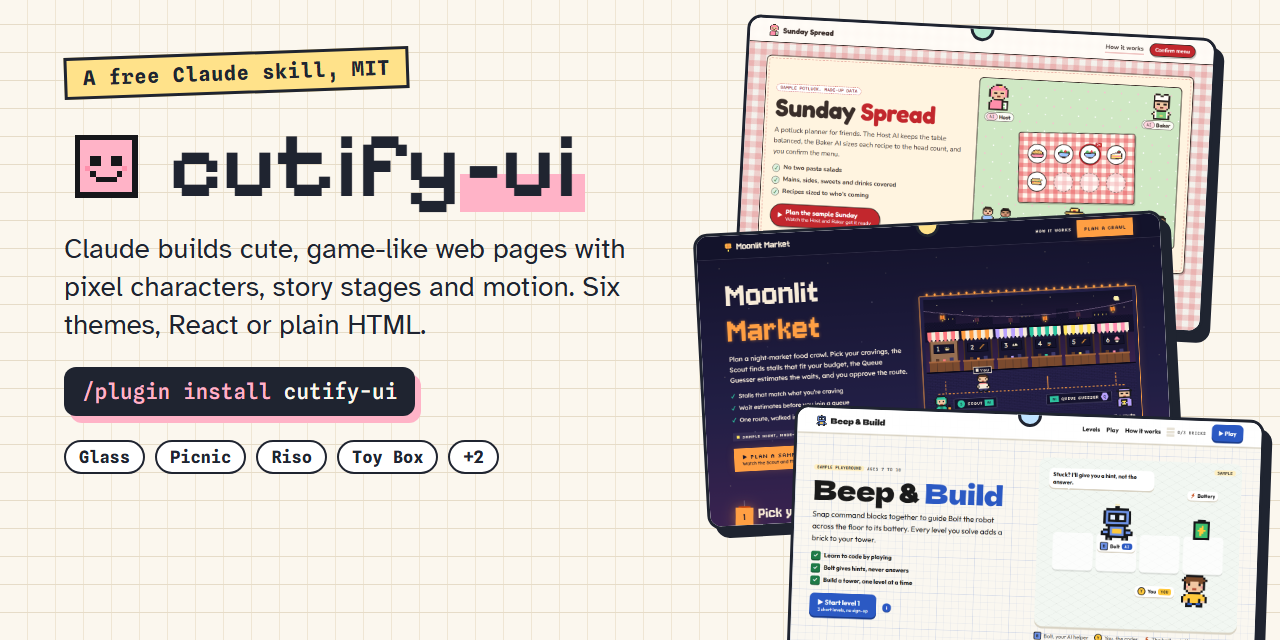
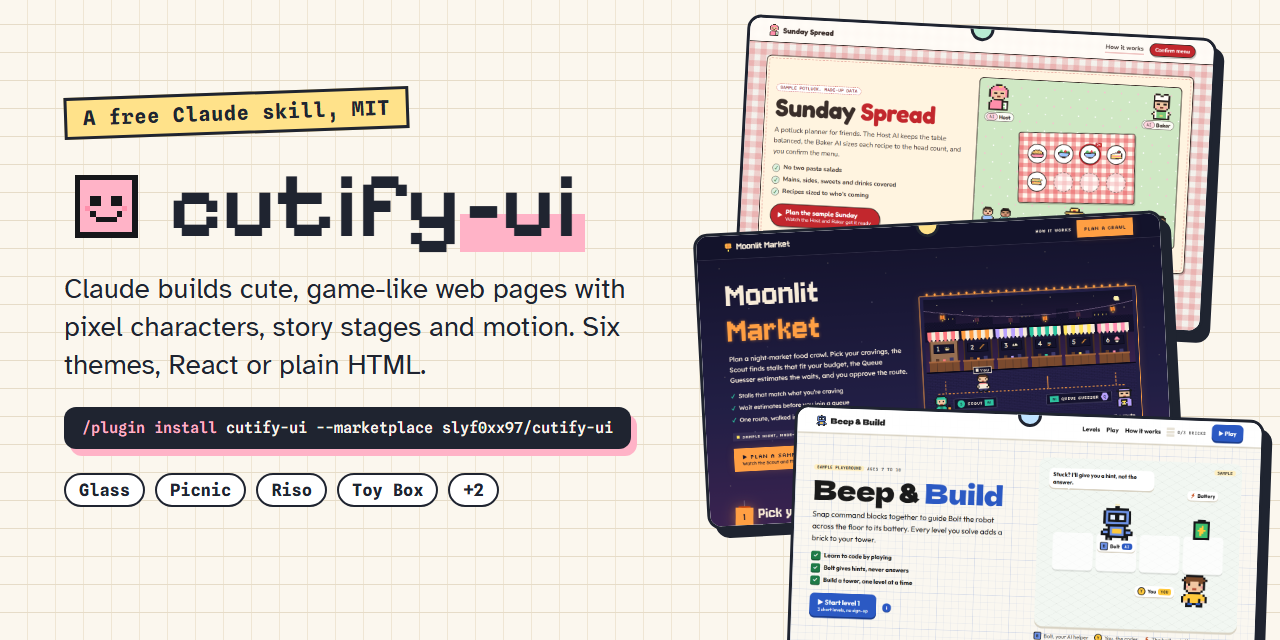
Show the full install command on the cover and social card
/plugin install cutify-ui alone can't find the plugin; it needs
--marketplace slyf0xx97/cutify-ui.

Changed region(s): [[0.0312, 0.0625, 0.5, 0.4062], [0.0312, 0.4375, 0.5, 0.8125]]

diff --git a/tools/cover.html b/tools/cover.html
@@ -18,7 +18,7 @@ html, body { margin: 0; }
 h1 { margin: 0; font: 600 92px/1 'Pixelify Sans', sans-serif; white-space: nowrap; }
 h1 span { background: linear-gradient(transparent 58%, var(--pink) 58%, var(--pink) 92%, transparent 92%); padding: 0 .08em; }
 p { margin: 0 0 24px; font-size: 28px; line-height: 1.35; color: var(--ink); }
-.cmd { display: inline-block; padding: 12px 18px; background: var(--ink); color: var(--paper); border-radius: 12px; font: 500 21px 'Spline Sans Mono', monospace; box-shadow: 6px 7px 0 var(--pink); }
+.cmd { display: inline-block; padding: 12px 18px; background: var(--ink); color: var(--paper); border-radius: 12px; font: 500 15px 'Spline Sans Mono', monospace; white-space: nowrap; box-shadow: 6px 7px 0 var(--pink); }
 .cmd b { color: var(--pink); font-weight: 500; }
 .chips { display: flex; gap: 10px; margin-top: 24px; }
 .chips span { padding: 5px 13px; border: 2px solid var(--ink); border-radius: 999px; font: 700 17px 'Spline Sans Mono', monospace; background: #fff; }
@@ -41,7 +41,7 @@ p { margin: 0 0 24px; font-size: 28px; line-height: 1.35; color: var(--ink); }
       <h1>cutify<span>-ui</span></h1>
     </div>
     <p>Claude builds cute, game-like web pages with pixel characters, story stages and motion. Six themes, React or plain HTML.</p>
-    <span class="cmd"><b>/plugin install</b> cutify-ui</span>
+    <span class="cmd"><b>/plugin install</b> cutify-ui --marketplace slyf0xx97/cutify-ui</span>
     <div class="chips"><span>Glass</span><span>Picnic</span><span>Riso</span><span>Toy Box</span><span>+2</span></div>
   </div>
   <div class="shot big" style="left: 690px; top: 34px; transform: rotate(-1.5deg); z-index: 2"><span class="pin" style="background: var(--mint)"></span><iframe src="../examples/sprout/" title="Sprout" tabindex="-1"></iframe><span class="tag">Glass</span></div>

diff --git a/tools/social.html b/tools/social.html
@@ -18,7 +18,7 @@ html, body { margin: 0; }
 h1 { margin: 0; font: 600 92px/1 'Pixelify Sans', sans-serif; white-space: nowrap; }
 h1 span { background: linear-gradient(transparent 58%, var(--pink) 58%, var(--pink) 92%, transparent 92%); padding: 0 .08em; }
 p { margin: 0 0 24px; font-size: 28px; line-height: 1.35; color: var(--ink); }
-.cmd { display: inline-block; padding: 12px 18px; background: var(--ink); color: var(--paper); border-radius: 12px; font: 500 21px 'Spline Sans Mono', monospace; box-shadow: 6px 7px 0 var(--pink); }
+.cmd { display: inline-block; padding: 12px 18px; background: var(--ink); color: var(--paper); border-radius: 12px; font: 500 15px 'Spline Sans Mono', monospace; white-space: nowrap; box-shadow: 6px 7px 0 var(--pink); }
 .cmd b { color: var(--pink); font-weight: 500; }
 .chips { display: flex; gap: 10px; margin-top: 24px; }
 .chips span { padding: 5px 13px; border: 2px solid var(--ink); border-radius: 999px; font: 700 17px 'Spline Sans Mono', monospace; background: #fff; }
@@ -36,7 +36,7 @@ p { margin: 0 0 24px; font-size: 28px; line-height: 1.35; color: var(--ink); }
       <h1>cutify<span>-ui</span></h1>
     </div>
     <p>Claude builds cute, game-like web pages with pixel characters, story stages and motion. Six themes, React or plain HTML.</p>
-    <span class="cmd"><b>/plugin install</b> cutify-ui</span>
+    <span class="cmd"><b>/plugin install</b> cutify-ui --marketplace slyf0xx97/cutify-ui</span>
     <div class="chips"><span>Glass</span><span>Picnic</span><span>Riso</span><span>Toy Box</span><span>+2</span></div>
   </div>
   <div class="shot" style="left: 740px; top: 26px; transform: rotate(3deg); z-index: 1"><span class="pin" style="background: var(--mint)"></span><img src="../docs/gallery/sunday-spread.png" alt=""></div>
